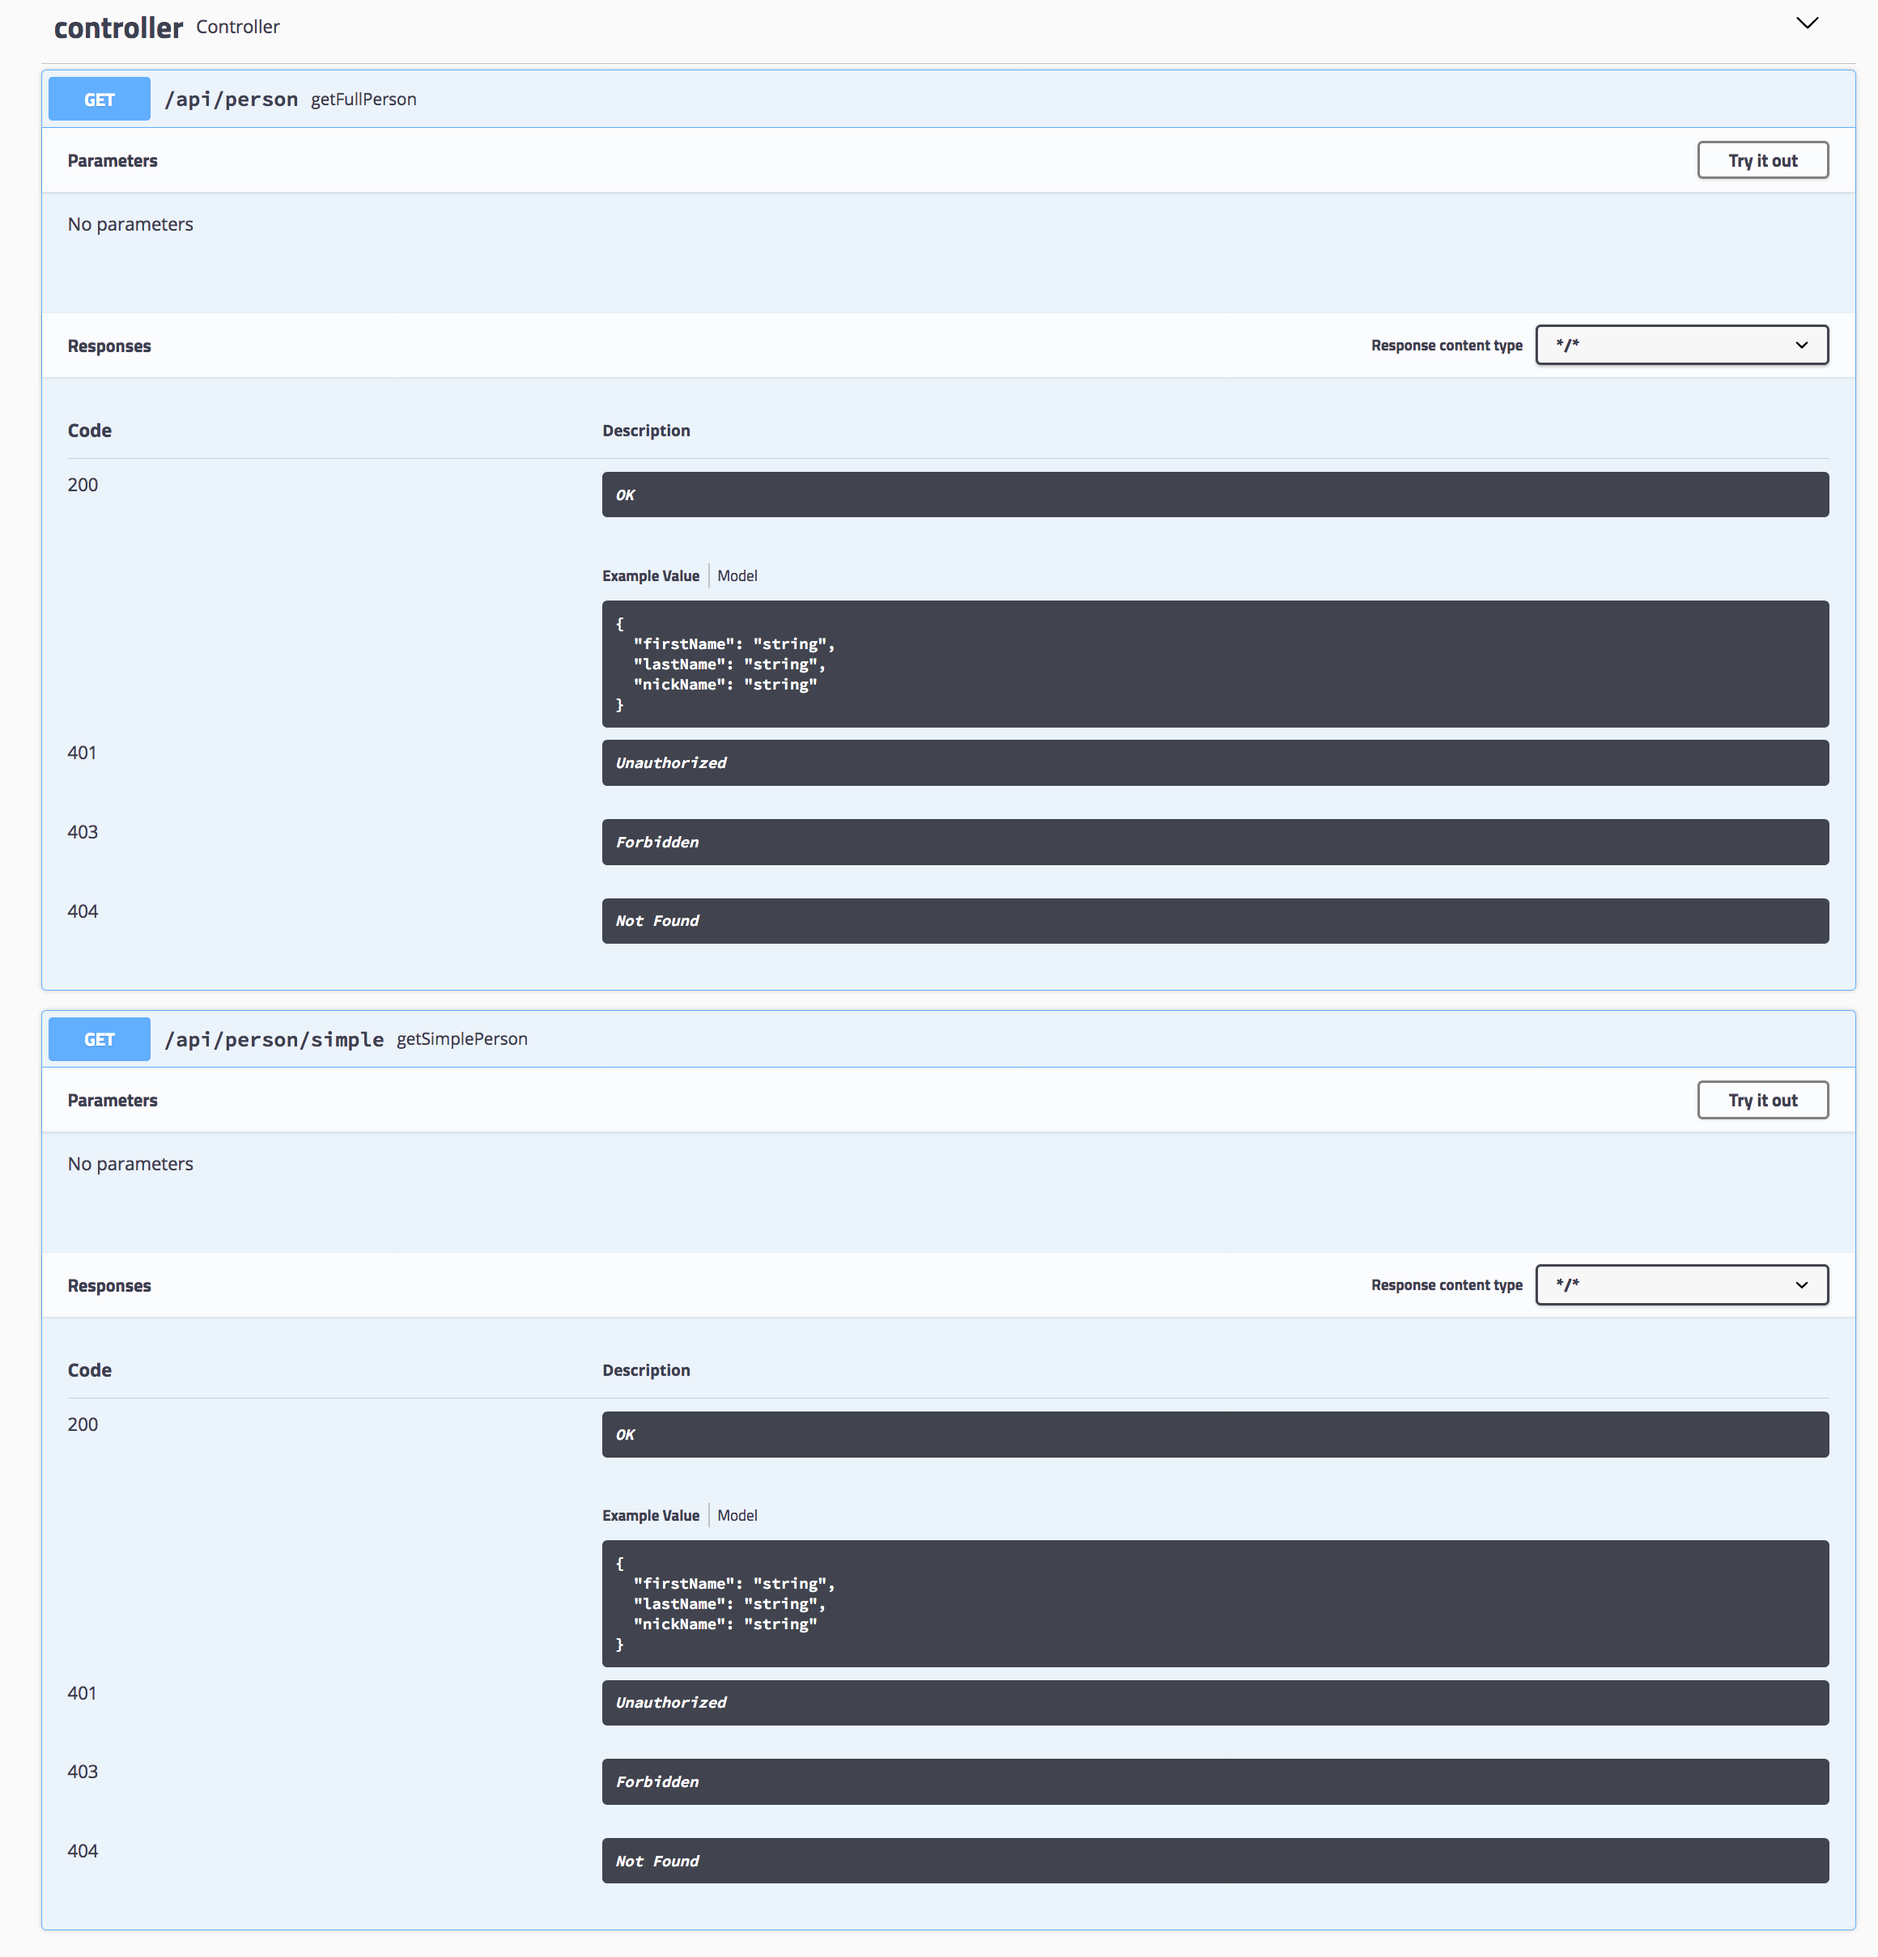
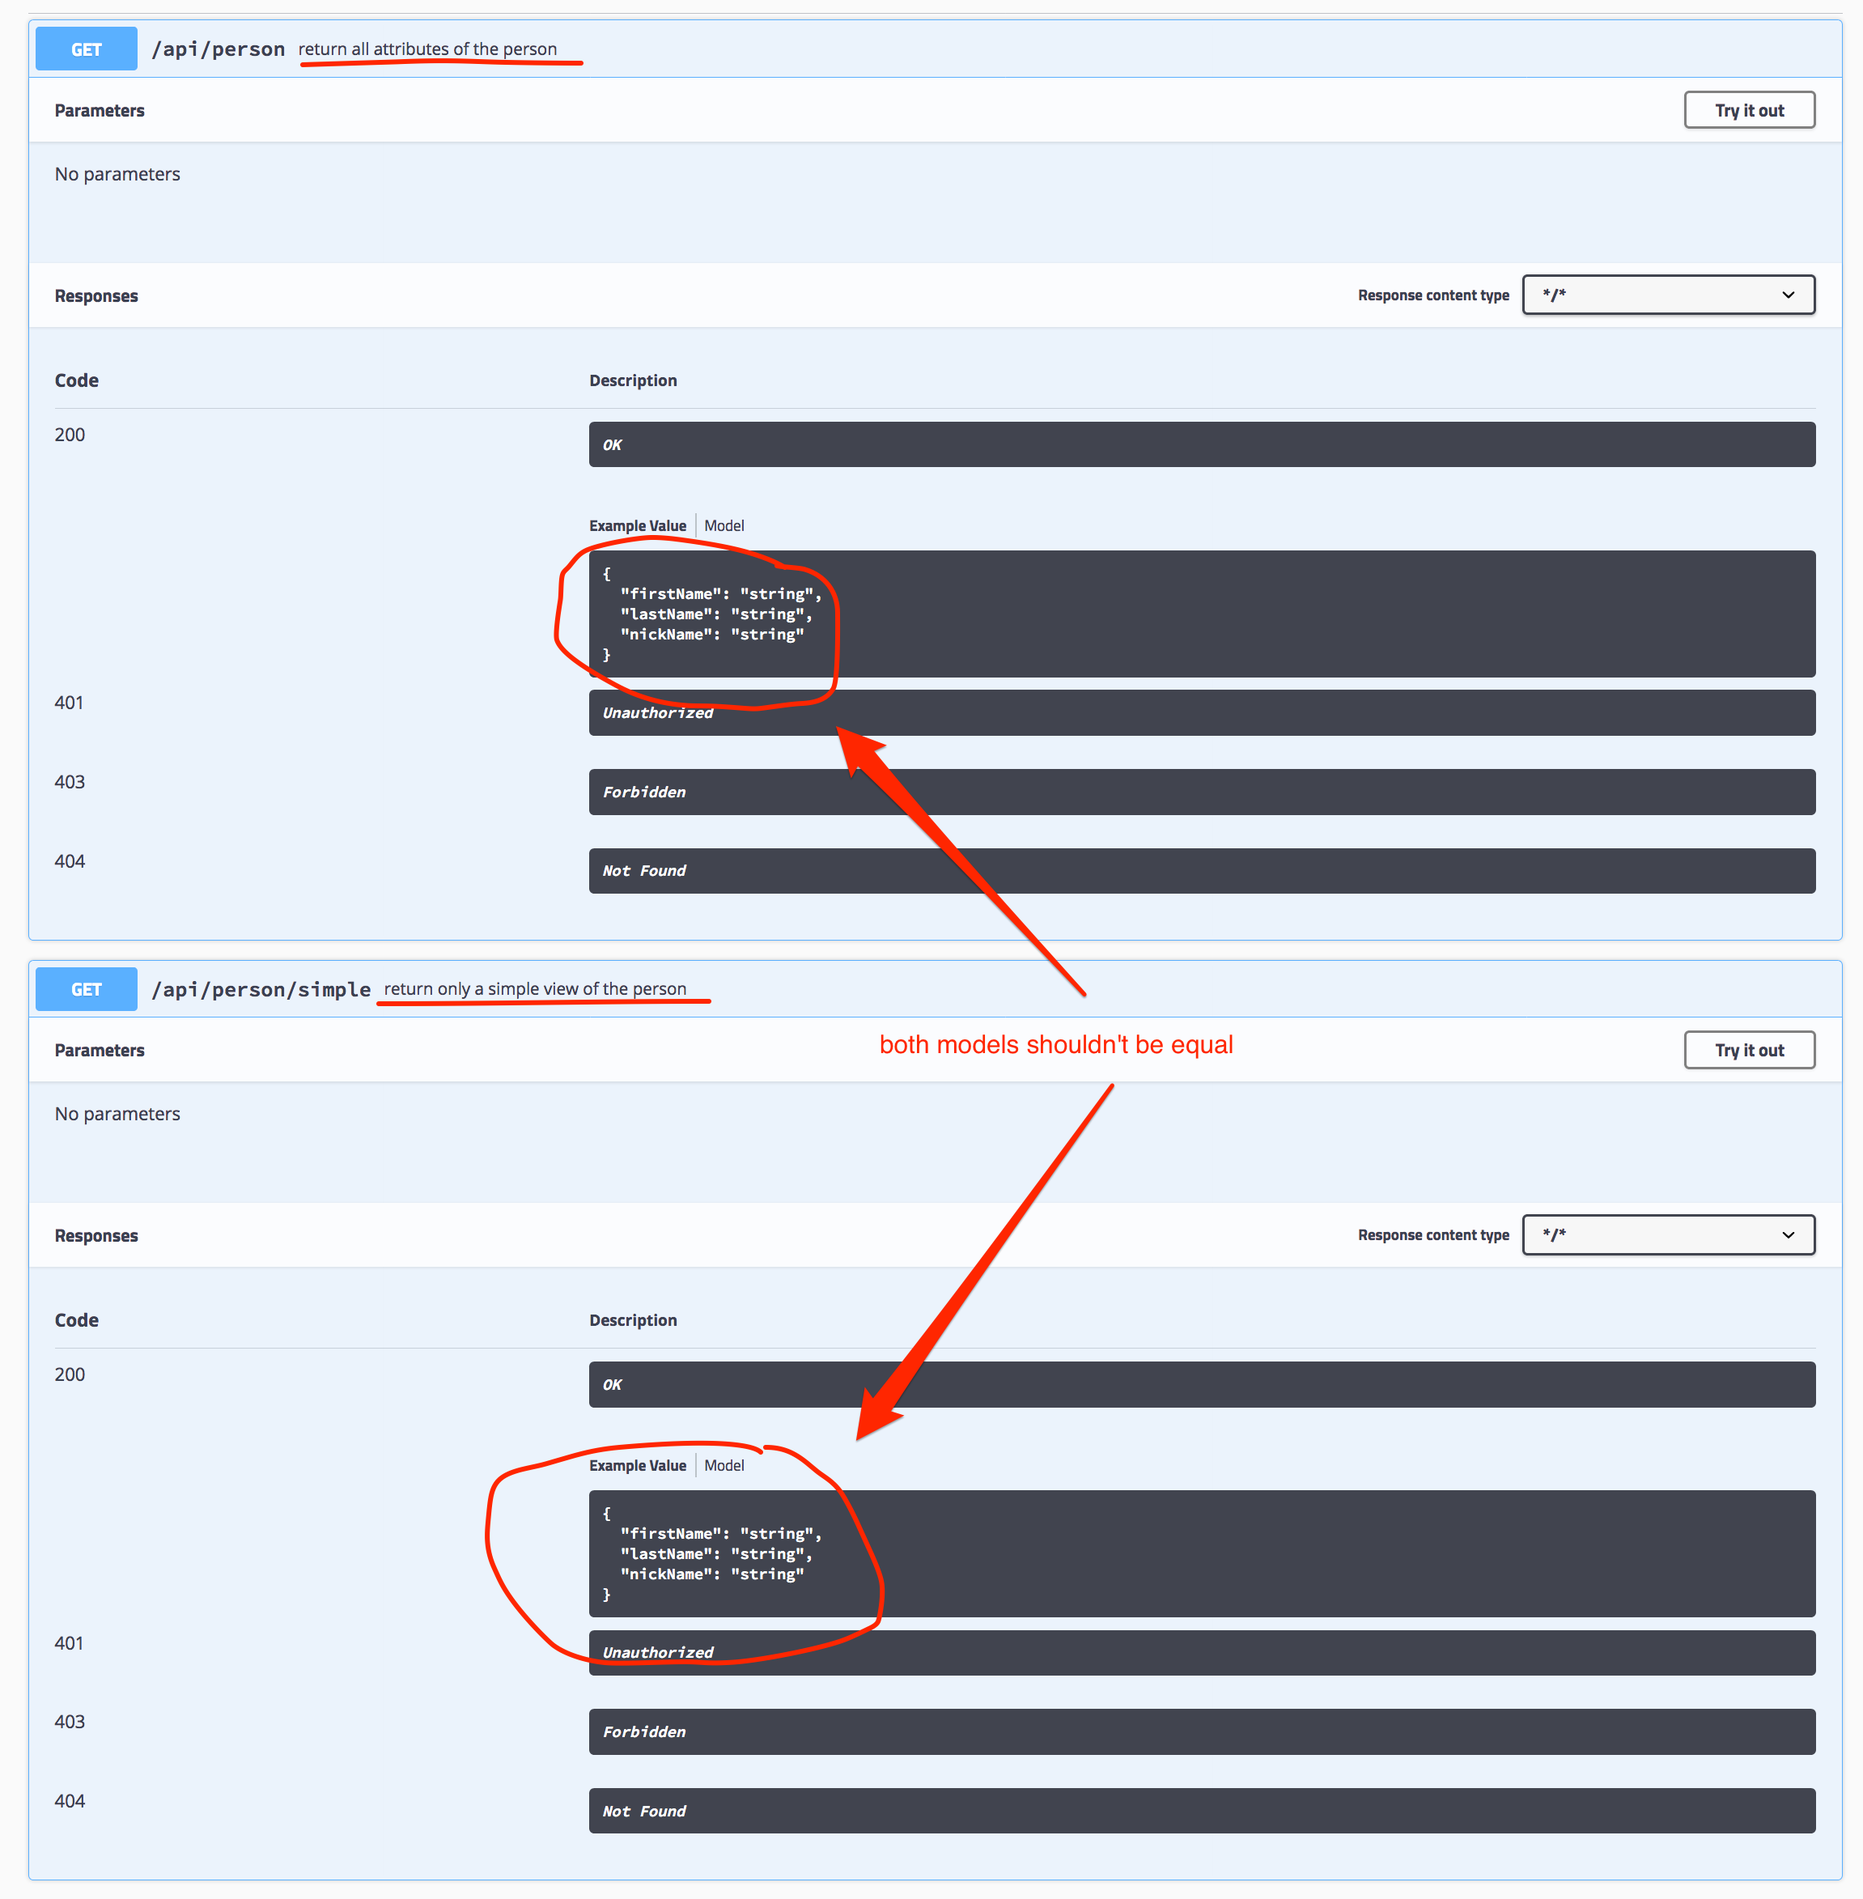
add more details

diff --git a/src/main/java/de/todo42/Controller.java b/src/main/java/de/todo42/Controller.java
@@ -21,6 +21,8 @@ import org.springframework.web.bind.annotation.RestController;
 
 import com.fasterxml.jackson.annotation.JsonView;
 
+import io.swagger.annotations.ApiOperation;
+
 /**
  * @author Dominik
  *
@@ -32,11 +34,13 @@ public class Controller {
 	
 	@JsonView(Views.SimplePerson.class)
 	@GetMapping(value = "/simple")
+	@ApiOperation(value = "return only a simple view of the person")
 	public Person getSimplePerson() {
 		return new Person();
 	}
 
 	@GetMapping
+	@ApiOperation(value = "return all attributes of the person")
 	public Person getFullPerson() {
 		return new Person();
 	}
